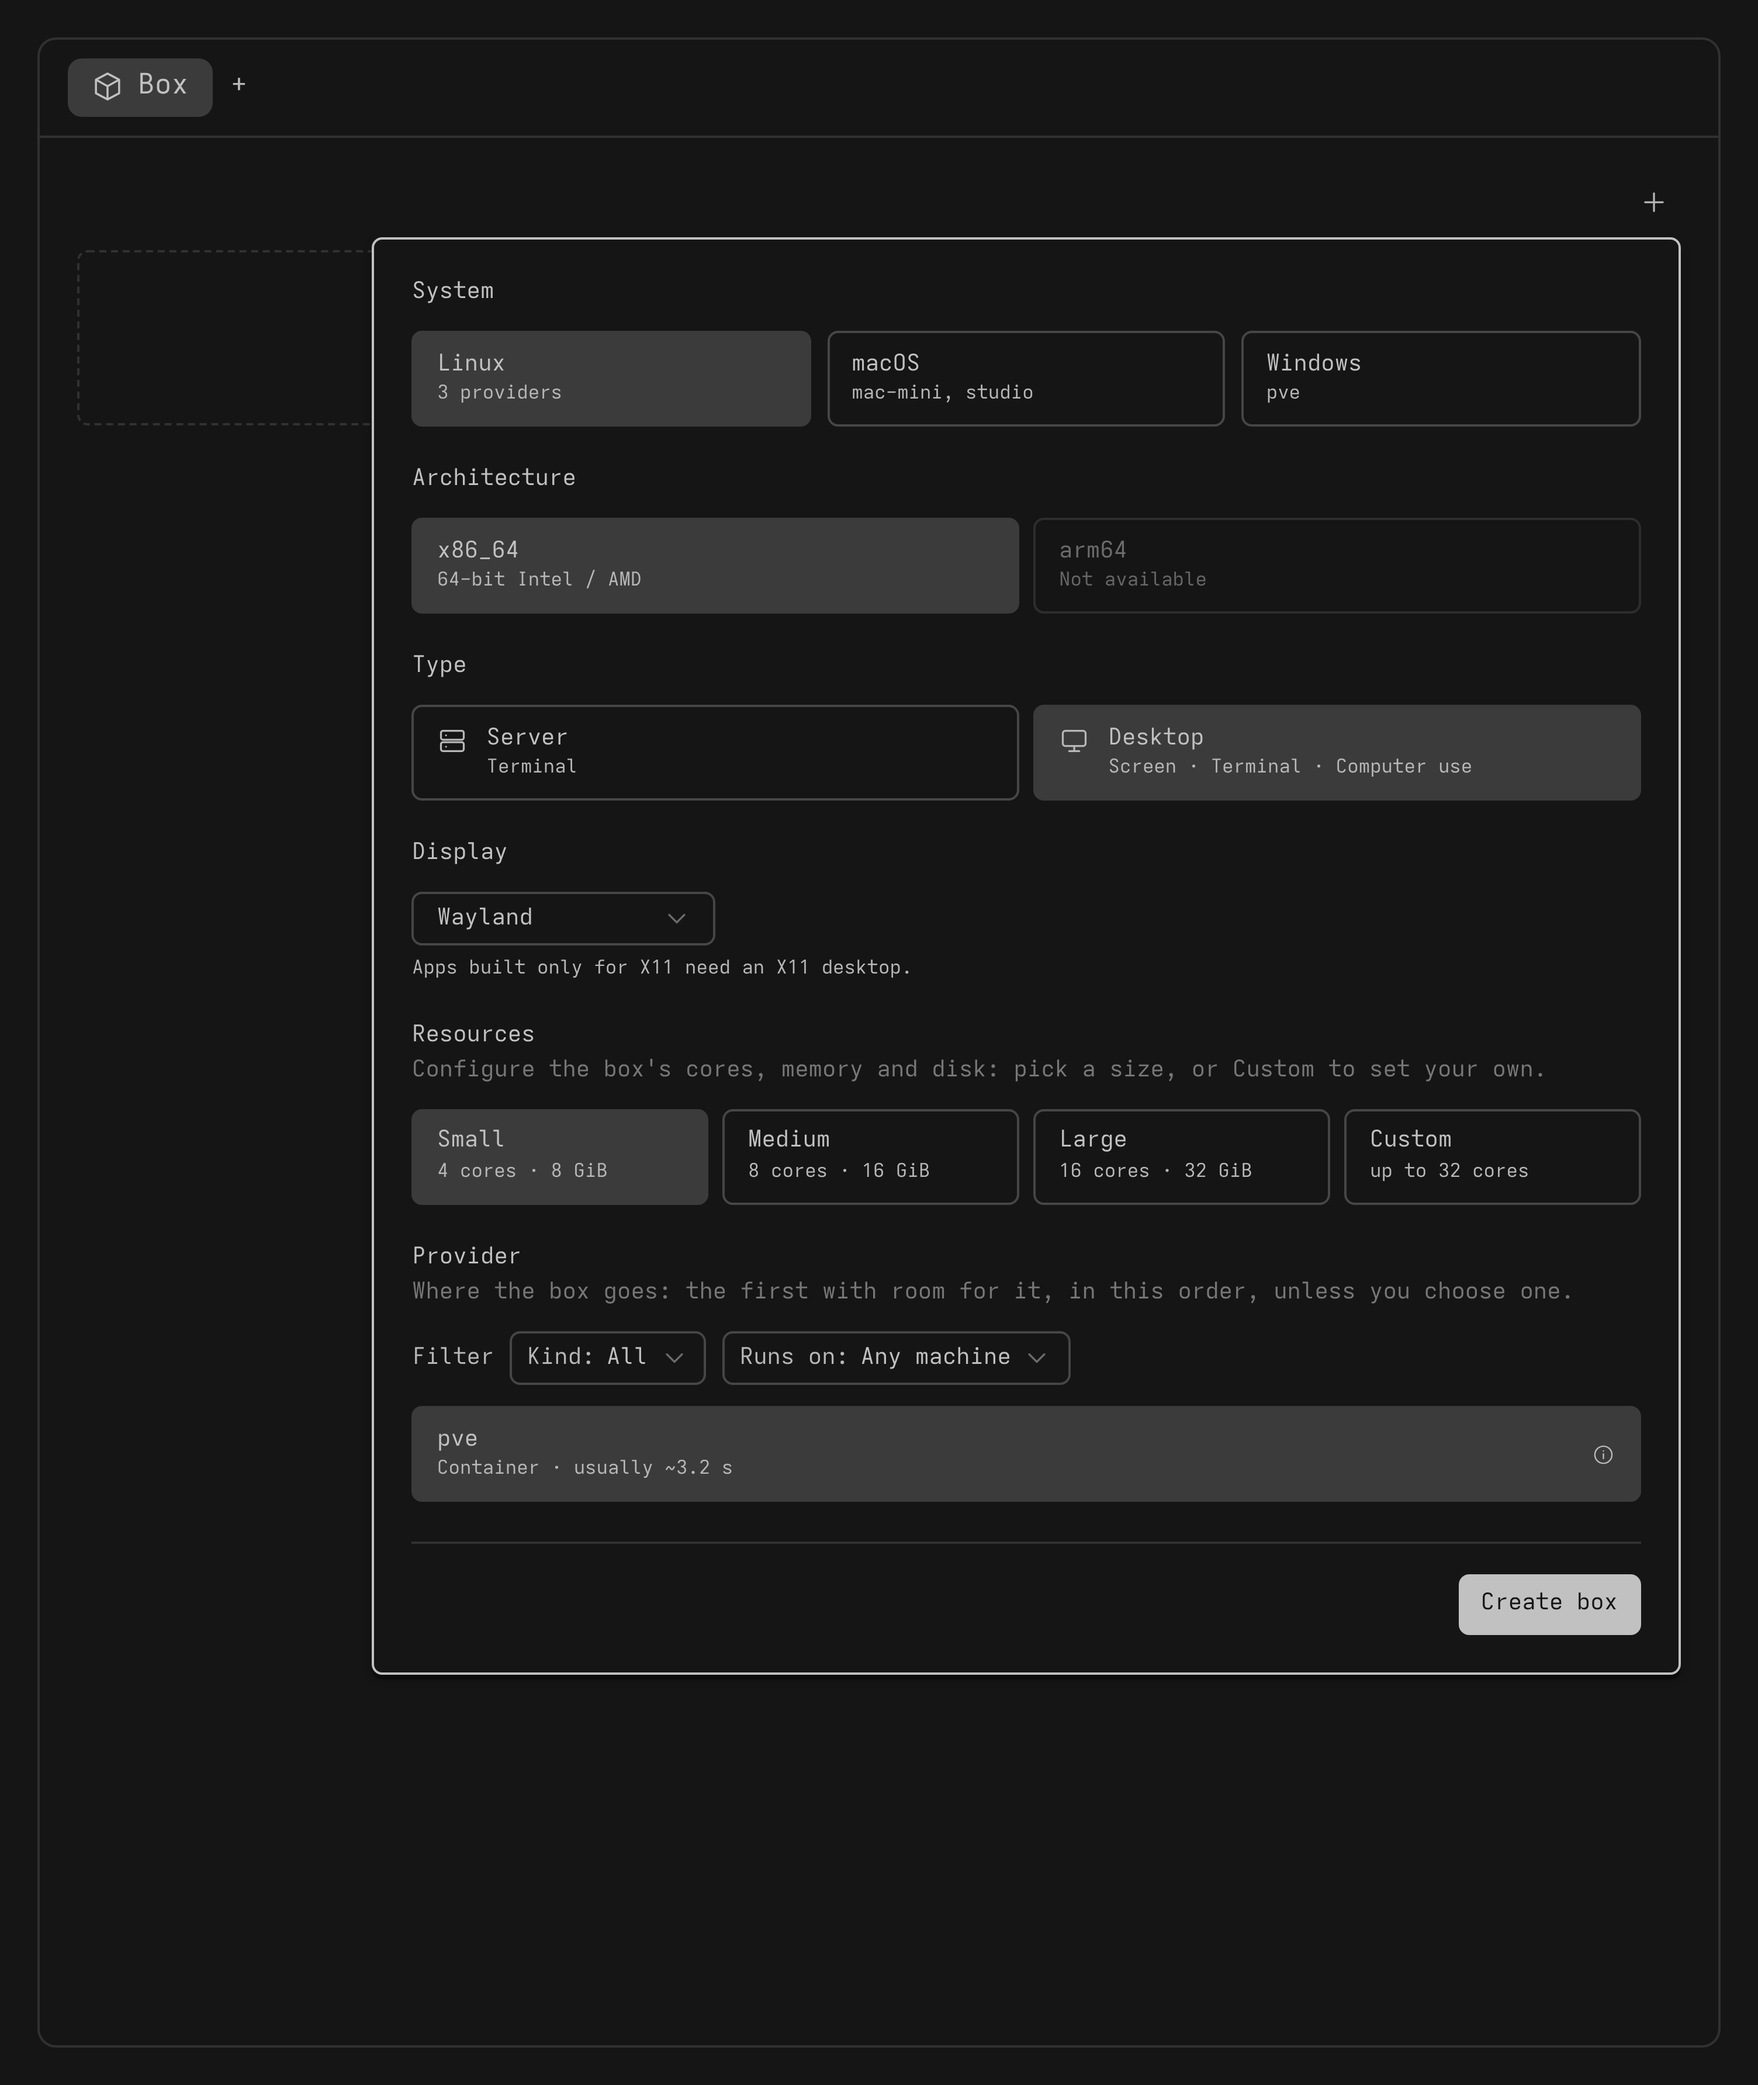
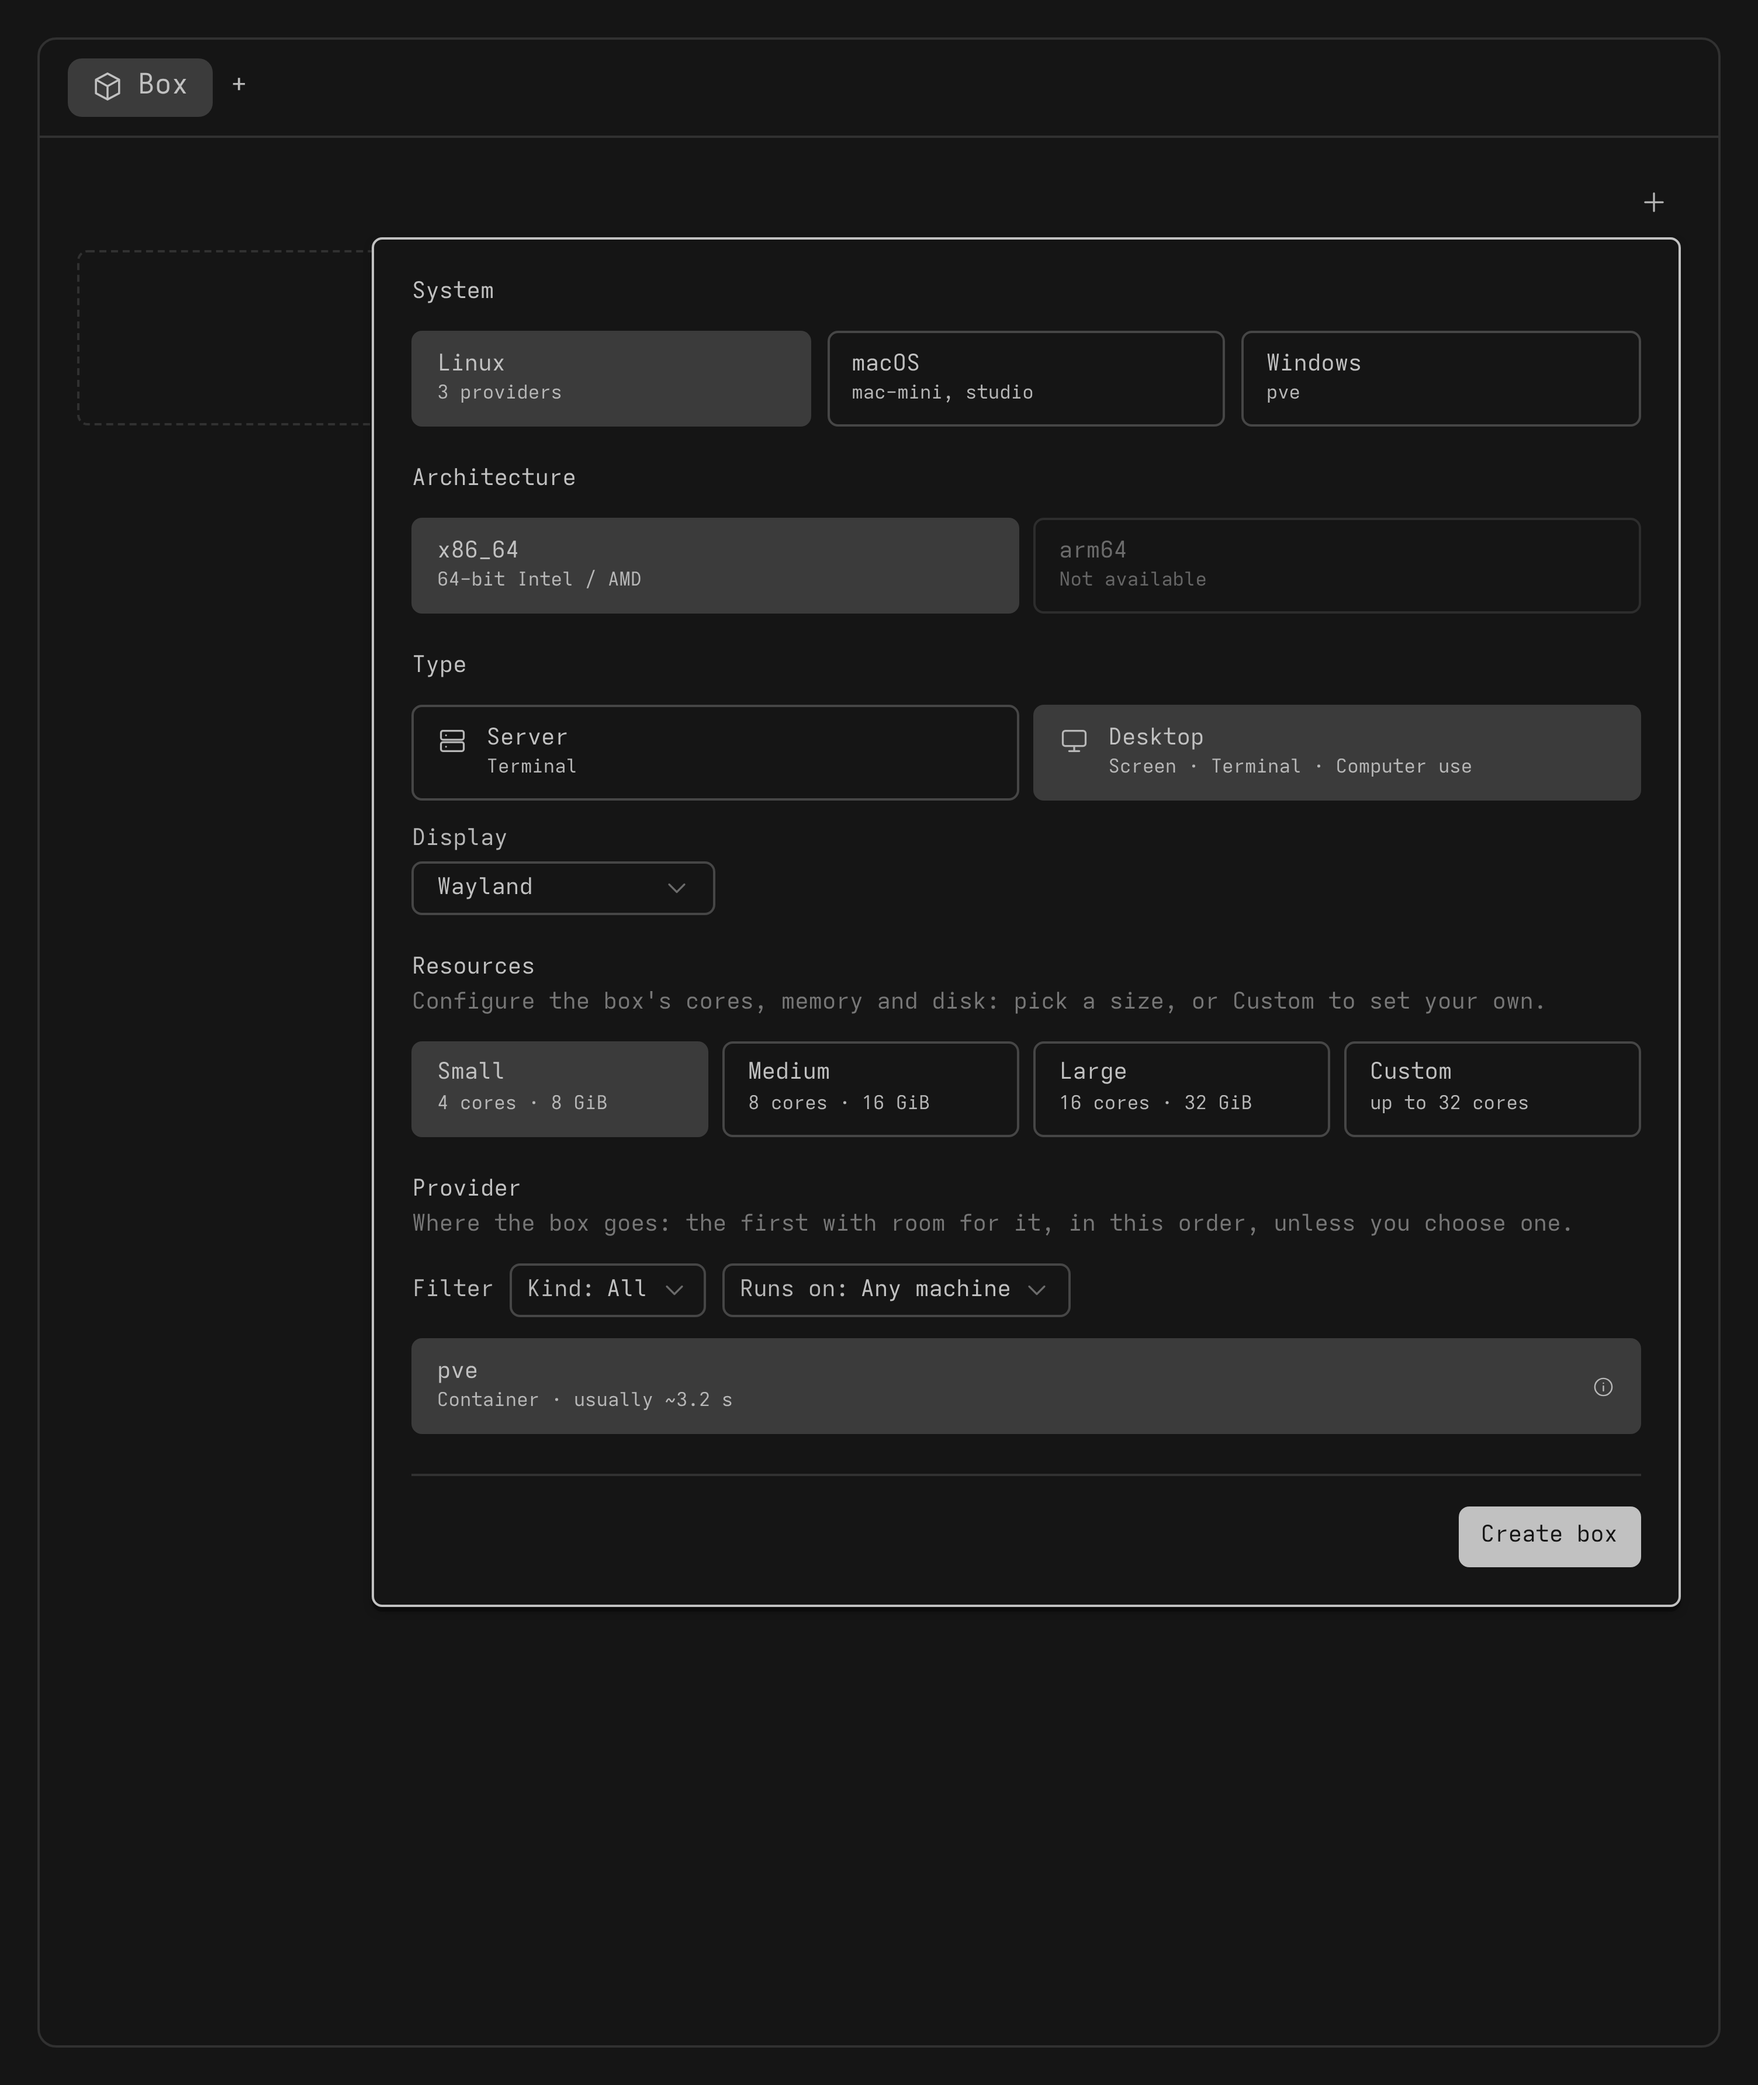
fix(app): Display is a dim sub-label under the Type cards, with no description (048)
Two operator notes on the live Display choice (3 October 2026). The title
read as a section heading in bold; Display is a detail of a desktop, as a
GPU is of its resources, so it is now a dim sub-label on a line of its own
under the Type cards, in the GPU sub-label's style, then the X11 or Wayland
menu, inside the Type section rather than a section of its own. The line
under Wayland, "Apps built only for X11 need an X11 desktop.", asked more
than it answered; the operator took it off, and no description replaces it:
the option names stay plain.

The test asserts that Display is no heading and that no description text
shows under either choice; docs/design/panel.md and the Display mockups
follow.

Changed region(s): [[0.2188, 0.4044, 0.9375, 0.8089]]

diff --git a/src/app/new-box.tsx b/src/app/new-box.tsx
@@ -337,11 +337,11 @@ export function NewBox({
               <OptionCard title="Server" words="Terminal" glyph={TYPE_GLYPHS.server} selected={!picked.desktop} available={typeAvailable(kinds, picked.os, picked.arch, false)} onClick={() => pick({ desktop: false })} />
               <OptionCard title="Desktop" words="Screen · Terminal · Computer use" glyph={TYPE_GLYPHS.desktop} selected={picked.desktop} available={typeAvailable(kinds, picked.os, picked.arch, true)} onClick={() => pick({ desktop: true })} />
             </div>
-          </FormSection>
-          {displayChoice ? (
-            // The windowing system, shown only when a system has both; X11 by default, so today's boxes are unchanged (048).
-            <FormSection title="Display">
-              <div className="space-y-1.5">
+            {displayChoice ? (
+              // The windowing is a detail of a desktop, as a GPU is of its resources (the operator's notes of 3 October 2026): a dim sub-label under
+              // the cards, then the menu, with plain names and no description. Shown only when a system has both; X11 by default, so today's boxes are unchanged (048).
+              <div className="space-y-1">
+                <p className="text-xs text-muted-foreground">Display</p>
                 <MenuSelect
                   label="Display"
                   value={picked.windowing}
@@ -351,10 +351,9 @@ export function NewBox({
                   ]}
                   onChange={(value) => pick({ windowing: value as Windowing })}
                 />
-                {picked.windowing === "wayland" ? <p className="text-2xs leading-snug text-muted-foreground">Apps built only for X11 need an X11 desktop.</p> : null}
               </div>
-            </FormSection>
-          ) : null}
+            ) : null}
+          </FormSection>
           {kind ? (
             <FormSection title="Resources" description={`Configure the box's cores, memory${gpuChoice ? ", disk and GPU" : " and disk"}: pick a size, or Custom to set your own.`}>
               <div role="radiogroup" aria-label="Size" className="flex flex-wrap gap-2" onKeyDown={(event) => arrows(event, choices.length, sizeIndex, (position) => chooseSize(choices[position]!, true))}>

diff --git a/test/app.test.tsx b/test/app.test.tsx
@@ -1919,15 +1919,16 @@ test("the Display choice shows only when a system offers X11 and Wayland, defaul
   // A server has no windowing, so the Display choice is hidden.
   const types = await screen.findByRole("radiogroup", { name: "Type" });
   expect(screen.queryByRole("combobox", { name: "Display" })).toBeNull();
-  // A desktop offers it, X11 by default, with the GPU still a choice and no Wayland note.
+  // A desktop offers it, X11 by default, with the GPU still a choice. It is a sub-label of Type, not a section of its
+  // own (the operator's notes of 3 October 2026), so it is no heading, and it carries no description.
   fireEvent.click(within(types).getByRole("radio", { name: /^Desktop/ }));
   expect((await screen.findByRole("combobox", { name: "Display" })).textContent).toBe("X11");
+  expect(screen.queryByRole("heading", { name: "Display" })).toBeNull();
   expect(screen.getByRole("combobox", { name: "GPU" })).toBeTruthy();
-  expect(screen.queryByText("Apps built only for X11 need an X11 desktop.")).toBeNull();
-  // Wayland: the note shows, the GPU choice goes (Wayland is CPU-only), and Create makes the Wayland kind.
+  // Wayland: the GPU choice goes (Wayland is CPU-only), still no description, and Create makes the Wayland kind.
   await choose("Display", "Wayland");
-  expect(screen.getByText("Apps built only for X11 need an X11 desktop.")).toBeTruthy();
   expect(screen.queryByRole("combobox", { name: "GPU" })).toBeNull();
+  expect(screen.queryByText(/X11 desktop|XFCE|Sway/)).toBeNull();
   fireEvent.click(screen.getByRole("button", { name: "Create box" }));
   await waitFor(() => expect(changes).toEqual(["acquire linux-desktop-wayland-cpu"]));
 });

diff --git a/docs/design/panel.md b/docs/design/panel.md
@@ -37,8 +37,9 @@ size ([#58](https://github.com/moonstead/bb-box/issues/58), decision 028).
 
 Kinds follow the operator's decisions of 1 October 2026: a kind is named by
 its OS, and what it has reads as badges or, in the New box form, as the
-steps that name it (System, Architecture, Type, a Display where a
-desktop's system offers both windowings, and a GPU under Resources).
+steps that name it (System, Architecture, Type with a Display under it
+where a desktop's system offers both windowings, and a GPU under
+Resources).
 
 | Kind ID | Box row | New box steps | Icon |
 | --- | --- | --- | --- |
@@ -232,6 +233,7 @@ words are never cut off.
 | Type                                                              |
 | [ [=] Server                   ] [ [#] Desktop                 ]  |
 | [     Terminal                 ] [     Screen · Terminal · Co… ]  |
+|                                                                   |
 | Display                                                           |
 | [ X11             v ]                                             |
 | Resources                                                         |
@@ -286,12 +288,15 @@ bottom sheet still carries the title "New box".
   card of its own. A type the system and architecture lack greys out the
   same way. These are the only glyphs in the form, the server and the
   monitor (`src/app/glyphs.tsx`), drawn in the weight of BB's set.
-- **Display**, between Type and Resources, is a menu of X11 or Wayland,
-  shown only where a desktop's system offers both (048, as the GPU menu
-  shows only where a GPU is a choice). It defaults to X11, so nothing
-  changes for today's boxes; under Wayland a dim line notes that apps
-  built only for X11 need an X11 desktop. Like every section it names no
-  kind: the windowing maps to a kind ID in `box-form.tsx`.
+- **Display** is a detail of a desktop, as a GPU is of its resources, not
+  a section of its own, so its title is never bold (the operator's notes
+  of 3 October 2026). Where a desktop's system offers both windowings
+  (048), a dim sub-label "Display" sits on a line of its own under the
+  Type cards, in the GPU sub-label's style, then one menu, X11 or
+  Wayland, the names plain and with no description under either (the
+  operator took the Wayland note off). It defaults to X11, so nothing
+  changes for today's boxes. Like every step it names no kind: the
+  windowing maps to a kind ID in `box-form.tsx`.
 - **The sections narrow each other.** Each shows every option, and the
   choice is the nearest that exists: picking Windows, which has no server,
   moves Type to Desktop; picking arm64 where only a server exists moves
